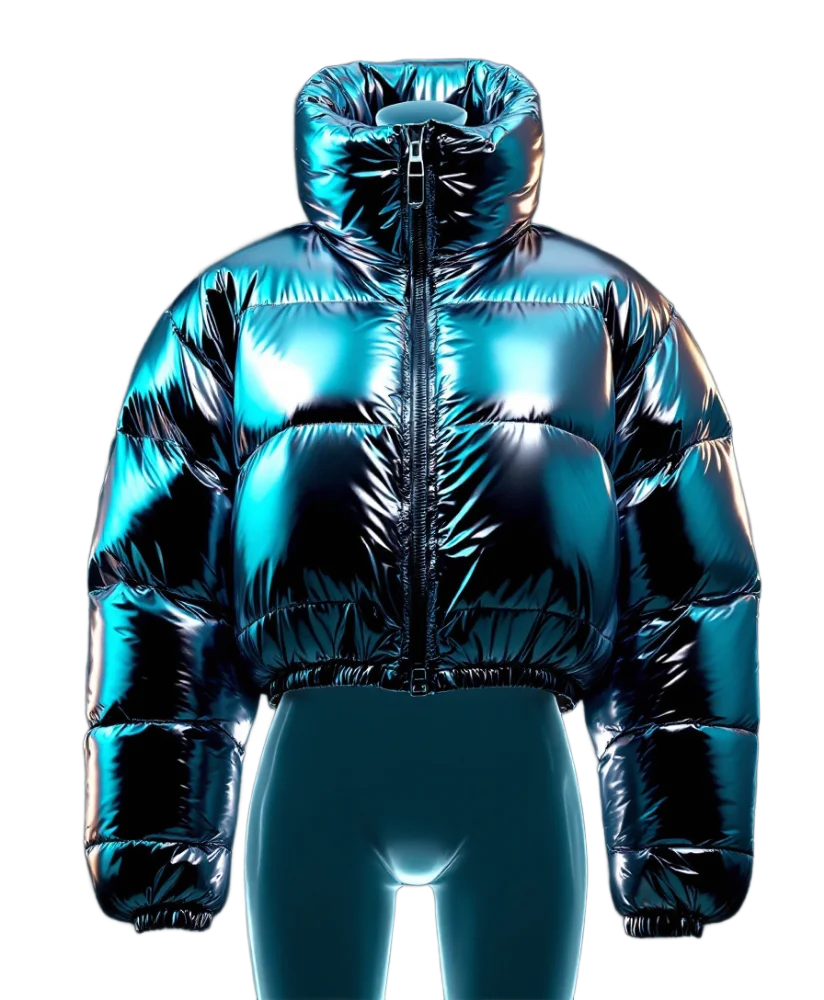
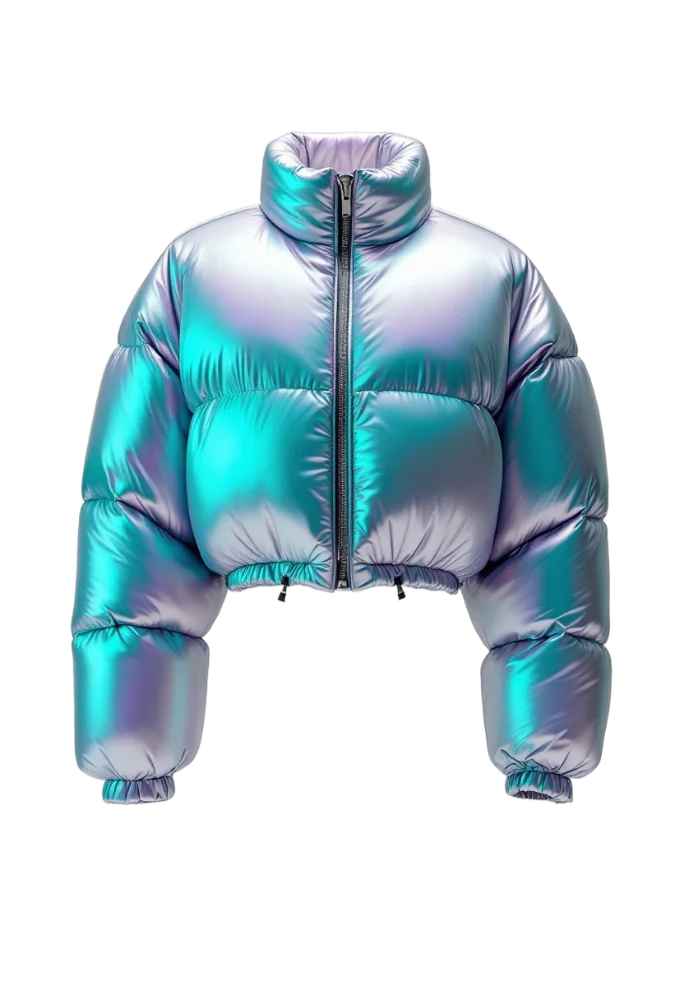
Hero-Jacke ohne Geisterkoerper neu generiert + freigestellt; Richtungs-Hinweis neutralisiert
- jacket.webp: Ghost-Mannequin-Puffer ohne Unterkoerper/Beine (wie die anderen
  drei garment-only), freigestellt auf dem dunklen Stage-Grund
- vto.hint_no_photo: oben/above entfernt (Auswahl steht je nach Layout
  daneben/darunter, nicht oben) - DE+EN + statischer Fallback

diff --git a/js/i18n.js b/js/i18n.js
@@ -417,7 +417,7 @@ const I18N = (() => {
       "vto.generating": "Generiere fotorealistische Vorschau...",
       "vto.result_alt": "Fotorealistische Vorschau",
       "vto.download": "Bild speichern",
-      "vto.hint_no_photo": "Wähle oben eine Person oder lade dein Foto hoch",
+      "vto.hint_no_photo": "Wähle eine Person oder lade dein Foto hoch",
       "vto.hint_no_design": "Generiere zuerst ein Design",
       "vto.hint_limit": "Demo-Limit erreicht ({limit}/{limit}) — kontaktiere uns für mehr",
       "vto.hint_ready_first": "Klick generiert deine fotorealistische Vorschau ({limit} pro Browser)",
@@ -1106,7 +1106,7 @@ const I18N = (() => {
       "vto.generating": "Generating photorealistic preview...",
       "vto.result_alt": "Photorealistic preview",
       "vto.download": "Save image",
-      "vto.hint_no_photo": "Pick a person above or upload your photo",
+      "vto.hint_no_photo": "Pick a person or upload your photo",
       "vto.hint_no_design": "Generate a design first",
       "vto.hint_limit": "Demo limit reached ({limit}/{limit}) — contact us for more",
       "vto.hint_ready_first": "Click generates your photorealistic preview ({limit} per browser)",

diff --git a/index.html b/index.html
@@ -410,7 +410,7 @@
                     </div>
                     <button id="vto-btn" class="vto-btn" disabled>
                         <span class="vto-btn-text" data-i18n="vto.btn">Fotorealistische Vorschau generieren</span>
-                        <span class="vto-btn-hint" id="vto-btn-hint" data-i18n="vto.hint_no_photo">Wähle oben eine Person oder lade dein Foto hoch</span>
+                        <span class="vto-btn-hint" id="vto-btn-hint" data-i18n="vto.hint_no_photo">Wähle eine Person oder lade dein Foto hoch</span>
                     </button>
                     <div class="vto-result-actions" id="vto-result-actions" hidden>
                         <button id="vto-download" class="vto-download-btn" data-i18n="vto.download">Bild speichern</button>
